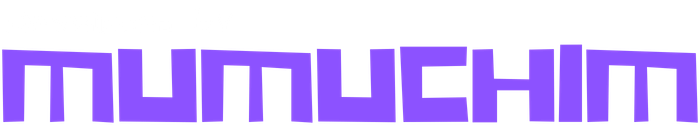
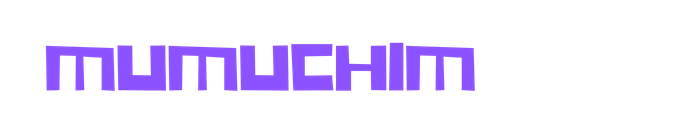
v1.0 PUBLISH

diff --git a/src/App.vue b/src/App.vue
@@ -92,7 +92,6 @@
           </div>
           <div class="brandText">
             <img :src="titleUrl" class="brandTitlePng floatingLogo" alt="Pento Battle" />
-            <div class="sub">Rotate • Flip • Dominate</div>
           </div>
         </div>
 
@@ -149,13 +148,6 @@
         </div>
       </template>
     </header>
-
-    <!-- Back button below the top bar (menus) -->
-    <div v-if="showMenuChrome && canGoBack" class="pbBackRow">
-      <button class="pbBackBtn imgBtn" @mouseenter="uiHover" @click="uiClick(); goBack()" aria-label="Back">
-        <img :src="backBtnUrl" class="btnPng floatingLogo" alt="Back" />
-      </button>
-    </div>
 
     <main class="main">
       <!-- =========================
@@ -715,19 +707,34 @@
 
 
 <!-- Menu-style bottom bar (menus) -->
-<footer v-if="showBottomBar" class="pbBottomBar" aria-hidden="true">
-  <!-- Hide the redundant bottom-left brand on WELCOME only (hero already shows the title) -->
-  <div v-if="screen !== 'auth'" class="pbBottomLeft">
+<footer v-if="showBottomBar" class="pbBottomBar">
+  <!-- Left: MADE BY -->
+  <div class="pbBottomLeft">
+    <div class="pbBottomHint">
+      <template v-if="useMenuPngs">
+        <img :src="madeByUrl" class="pbBottomPng" alt="MADE BY MUMUCHXM" />
+      </template>
+      <template v-else>MADE BY MUMUCHXM</template>
+    </div>
+  </div>
+
+  <!-- Center: Logo + Title -->
+  <div class="pbBottomCenter" v-if="screen !== 'auth'">
     <img :src="logoUrl" alt="" class="pbBottomLogo" />
     <img :src="titleUrl" alt="Pento Battle" class="pbBottomBrandPng" />
   </div>
+
+  <!-- Right: Back (menu pages) -->
   <div class="pbBottomRight">
-    <div class="pbBottomHint">
-    <template v-if="useMenuPngs">
-      <img :src="madeByUrl" class="pbBottomPng" alt="MADE BY MUMUCHXM" />
-    </template>
-    <template v-else>MADE BY MUMUCHXM</template>
-  </div>
+    <button
+      v-if="canGoBack"
+      class="btn ghost imgBtn pbBottomBackBtn"
+      @click="goBack"
+      aria-label="Back"
+      title="Back"
+    >
+      <img :src="backBtnUrl" class="btnPng floatingLogo" alt="Back" />
+    </button>
   </div>
 </footer>
 
@@ -4204,6 +4211,13 @@ onBeforeUnmount(() => {
   user-select: none;
 }
 
+.brandText{
+  display:flex;
+  align-items:center;
+  min-width: 0;
+  height: 44px; /* match logoMark so title can scale up without changing topbar height */
+}
+
 .topbar .right{
   display:flex;
   align-items:center;
@@ -5067,7 +5081,8 @@ onBeforeUnmount(() => {
 }
 .pbBottomPng{
   display:block;
-  height: 16px;
+  height: calc(100% - 12px);
+  max-height: 100%;
   width: auto;
   object-fit: contain;
   opacity: .85;
@@ -5693,26 +5708,32 @@ onBeforeUnmount(() => {
   backdrop-filter: blur(10px);
   pointer-events: none;
 }
-.pbBottomLeft{ display:flex; align-items:center; gap: 10px; }
+.pbBottomLeft{ display:flex; align-items:center; flex: 1; min-width: 0; height: 100%; }
+.pbBottomCenter{ display:flex; align-items:center; justify-content:center; gap: 12px; flex: 1; min-width: 0; height: 100%; }
+.pbBottomRight{ display:flex; align-items:center; justify-content:flex-end; flex: 1; min-width: 0; }
 .pbBottomLogo{
-  width: 28px; height: 28px; object-fit: contain;
+  width: 30px; height: 30px; object-fit: contain;
   filter: drop-shadow(0 10px 22px rgba(0,0,0,0.55));
 }
 .pbBottomBrand{ font-weight: 1000; letter-spacing: 2px; opacity:.75; text-transform: uppercase; }
 .pbBottomBrandPng{
-  height: 18px;
+  height: calc(100% - 12px);
+  max-height: 100%;
   width: auto;
   object-fit: contain;
   opacity: .85;
   filter: drop-shadow(0 10px 18px rgba(0,0,0,0.55));
 }
-.pbBottomRight{ opacity:.55; font-weight: 900; letter-spacing: 2px; text-transform: uppercase; }
+.pbBottomHint{ opacity:.55; font-weight: 900; letter-spacing: 2px; text-transform: uppercase; height: 100%; display:flex; align-items:center; }
+.pbBottomBackBtn{ pointer-events: auto; }
 
 /* Floating PNG buttons */
 .imgBtn{ display:inline-flex; align-items:center; justify-content:center; }
 .btnPng{ height: 22px; width: auto; object-fit: contain; pointer-events: none; }
 .pbMiniBtn.imgBtn{ padding-top: 6px; padding-bottom: 6px; }
-.brandTitlePng{ height: 22px; width: auto; object-fit: contain; }
+.brandTitlePng{ height: 100%; width: auto; object-fit: contain; max-height: 44px; }
+/* floatingLogo sets fixed 40x40; override so the title can fill the in-game top bar slot */
+.brandTitlePng.floatingLogo{ height: 100% !important; width: auto !important; max-height: 44px !important; }
 
 
 
